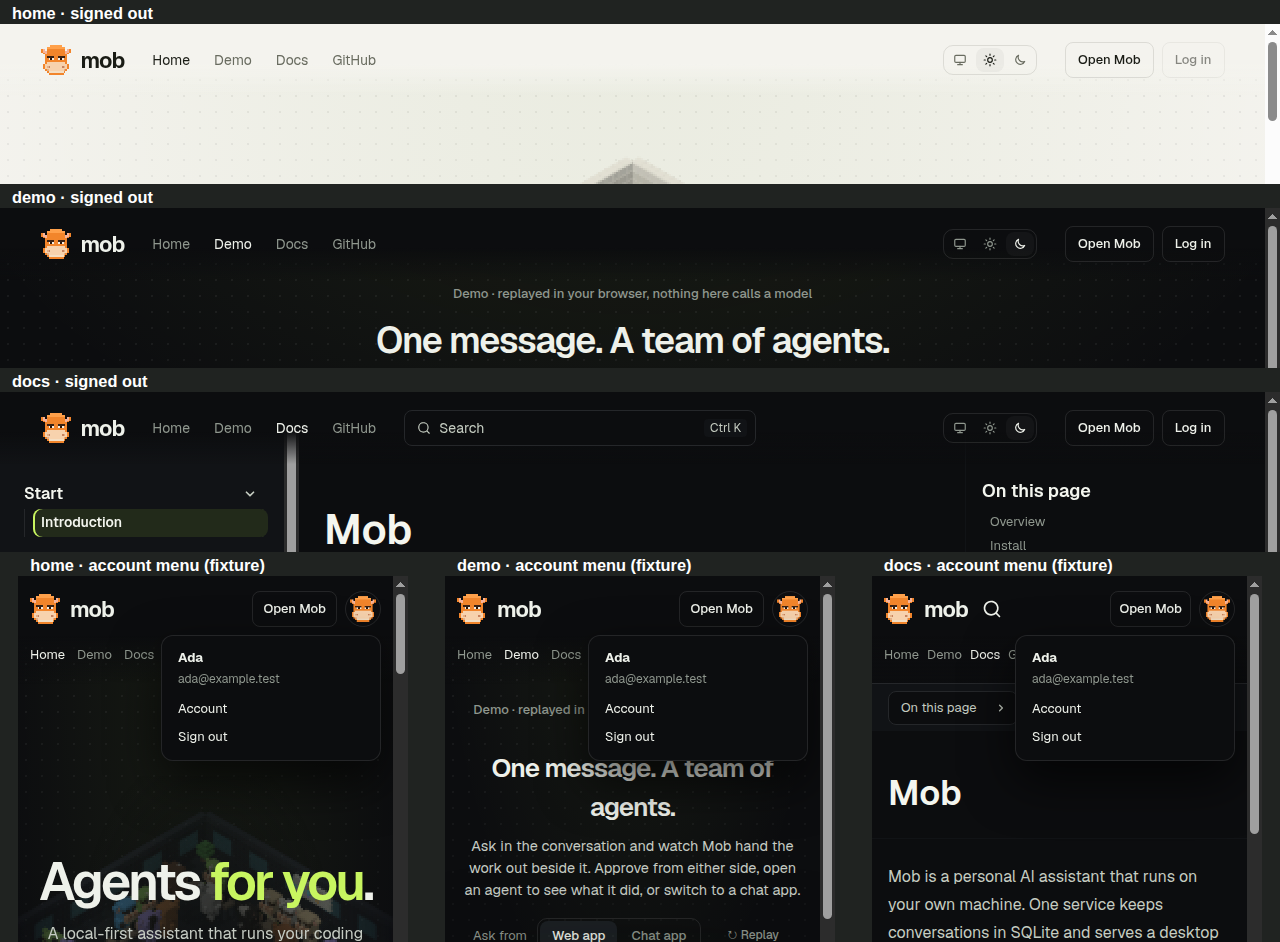
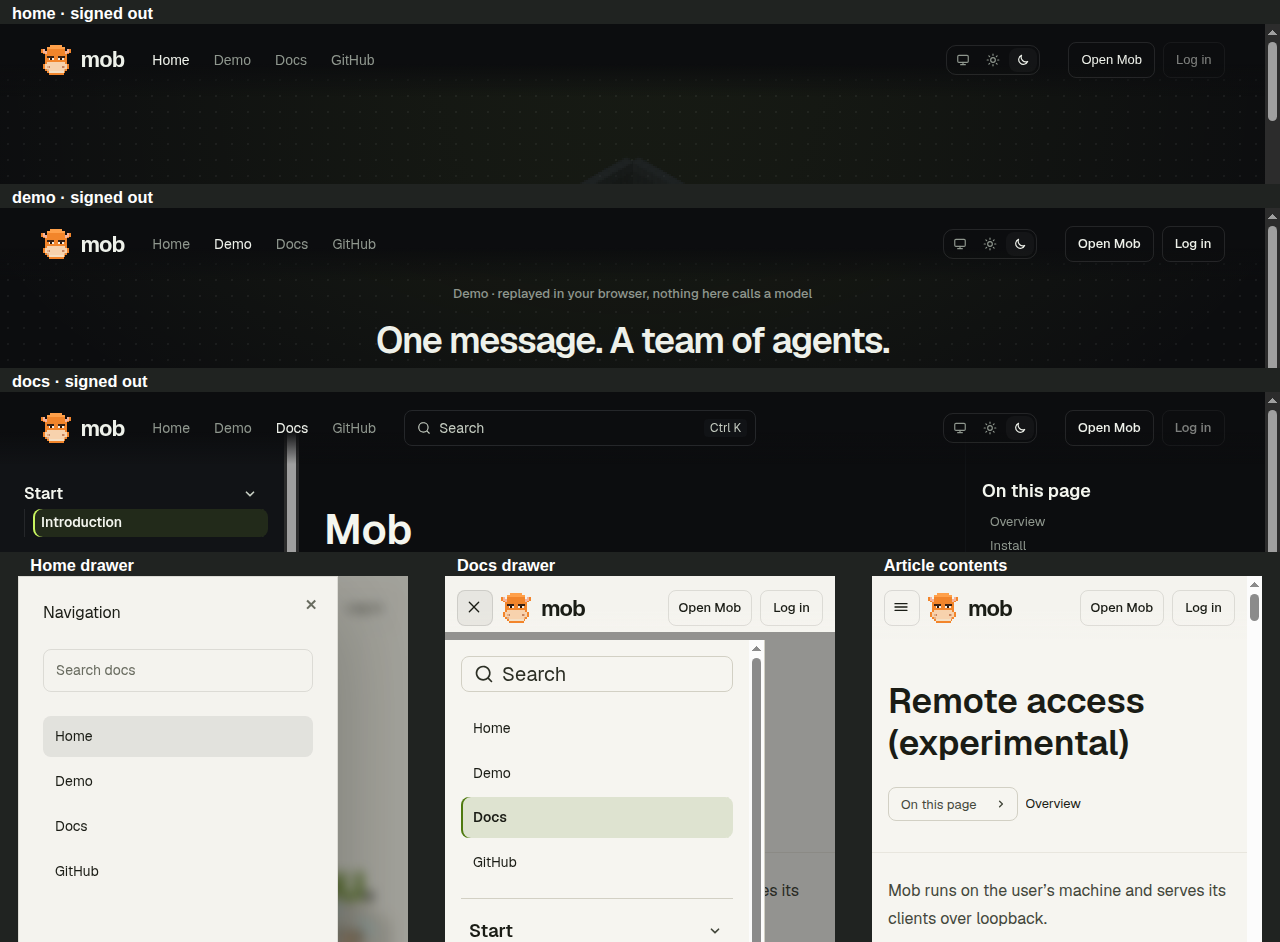
fix(web): simplify mobile public navigation

diff --git a/webapp/src/components/site/header.css b/webapp/src/components/site/header.css
@@ -1,5 +1,5 @@
 /* One public header, independent of the React and Starlight page styles. */
-.site-header, .site-user-menu {
+.site-header, .site-user-menu, .site-drawer {
 	--site-bg: #0c0d0f;
 	--site-text: #eef1ea;
 	--site-muted: #8f978e;
@@ -15,7 +15,7 @@
 	line-height: 1.5;
 	color: var(--site-text);
 }
-[data-theme='light'] :is(.site-header, .site-user-menu) {
+[data-theme='light'] :is(.site-header, .site-user-menu, .site-drawer) {
 	--site-bg: #f4f3ee;
 	--site-text: #1a1c15;
 	--site-muted: #696c60;
@@ -46,12 +46,23 @@
 .site-account { display: flex; align-items: center; gap: 8px; font-size: 13px; font-weight: 500; }
 .site-account a { box-sizing: border-box; display: inline-flex; align-items: center; min-height: 36px; padding: 6px 12px; border: 1px solid var(--site-border); border-radius: 8px; }
 .site-account a:hover, .site-account a[aria-current='page'] { background: color-mix(in srgb, var(--site-text) 6%, transparent); }
-@media (max-width: 760px) {
-	.site-header-inner { height: 108px; padding: 14px 12px; gap: 12px 8px; grid-template-columns: auto 1fr auto auto; }
-	.site-brand { grid-area: 1 / 1 / 2 / 3; }
-	.site-account { grid-area: 1 / 3 / 2 / 5; justify-content: flex-end; }
-	.site-links { grid-area: 2 / 1 / 3 / 4; gap: 12px; font-size: 13px; }
-	.site-theme { grid-area: 2 / 4; justify-content: flex-end; }
+.site-menu-button { display: none; }
+.site-drawer.dialog-panel {
+	inset: 0 auto 0 0; transform: none; width: min(320px, 85vw); max-width: none;
+	height: 100dvh; max-height: none; border-radius: 0; padding: 24px;
+	display: flex; flex-direction: column; gap: 24px; background: var(--site-bg);
+}
+.site-drawer h2 { margin: 0; font-size: 16px; }
+.site-drawer-links { display: flex; flex-direction: column; gap: 4px; }
+.site-drawer-links a, .site-drawer-search { color: inherit; text-decoration: none; padding: 10px 12px; border-radius: 8px; }
+.site-drawer-links a:hover, .site-drawer-links a[aria-current='page'] { background: color-mix(in srgb, currentColor 8%, transparent); }
+.site-drawer-search { border: 1px solid var(--site-border); color: var(--site-muted); }
+.site-drawer-theme { margin-top: auto; padding-top: 20px; border-top: 1px solid var(--site-border); }
+@media (width < 50rem) {
+	.site-header-inner { height: 64px; padding: 12px; gap: 8px; grid-template-columns: 36px 1fr auto; }
+	.site-menu-button { display: inline-flex; align-items: center; justify-content: center; width: 36px; height: 36px; border: 1px solid var(--site-border); border-radius: 8px; background: transparent; color: inherit; font-size: 20px; cursor: pointer; }
+	.site-header .site-links, .site-header .site-theme { display: none; }
+	.site-account { justify-content: flex-end; }
 	.site-account a { padding: 6px 10px; }
 }
 

diff --git a/webapp/src/components/site/Site.tsx b/webapp/src/components/site/Site.tsx
@@ -1,6 +1,7 @@
 import { Logo } from '../brand/Logo';
 import { ThemePicker } from '../../theme/ThemePicker';
 import type { MouseEventHandler } from 'react';
+import { Dialog, DialogTrigger, DialogContent, DialogTitle } from '../ui/dialog';
 import { siteLinks } from './navigation';
 import { UserMenu } from '../../landing/UserMenu';
 import './header.css';
@@ -14,6 +15,17 @@ const github = 'https://github.com/fdkevin0/mob';
 export function SiteHeader({ current, floating, onSignIn }: { current?: string; floating?: boolean; onSignIn?: MouseEventHandler<HTMLButtonElement> }) {
 	return (
 		<header className={`site-header${floating ? ' site-header-floating' : ''}`}><div className="site-header-inner">
+			<Dialog>
+				<DialogTrigger className="site-menu-button" aria-label="Open navigation"><span aria-hidden="true">☰</span></DialogTrigger>
+				<DialogContent className="site-drawer" aria-describedby={undefined}>
+					<DialogTitle>Navigation</DialogTitle>
+					<a className="site-drawer-search" href="/docs/?search">Search docs</a>
+					<nav className="site-drawer-links" aria-label="Site">
+						{siteLinks.map(link => <a key={link.href} href={link.href} aria-current={link.href === current ? 'page' : undefined}>{link.label}</a>)}
+					</nav>
+					<div className="site-drawer-theme"><ThemePicker /></div>
+				</DialogContent>
+			</Dialog>
 			<a href="/" className="site-brand" aria-label="Mob home"><Logo /></a>
 			<nav className="site-links" aria-label="Site">
 				{siteLinks.map(link => <a key={link.href} href={link.href} aria-current={link.href === current ? 'page' : undefined}>{link.label}</a>)}

diff --git a/webapp/src/landing/navigation.test.tsx b/webapp/src/landing/navigation.test.tsx
@@ -51,3 +51,14 @@ it('puts account and sign-out in the avatar menu, and reports sign-out errors', 
 	await waitFor(() => expect(auth.signOut).toHaveBeenCalledOnce());
 	expect((await screen.findByRole('alert')).textContent).toContain('Could not sign out');
 });
+
+it('opens the mobile navigation with docs search and theme controls', async () => {
+	render(<SiteHeader current="/demo" />);
+	fireEvent.click(screen.getByRole('button', { name: 'Open navigation' }));
+	const drawer = within(await screen.findByRole('dialog', { name: 'Navigation' }));
+	expect(drawer.getByRole('link', { name: 'Search docs' }).getAttribute('href')).toBe('/docs/?search');
+	expect(drawer.getByRole('link', { current: 'page' }).textContent).toBe('Demo');
+	expect(drawer.getByRole('radiogroup', { name: 'Theme' })).toBeTruthy();
+	fireEvent.click(drawer.getByRole('button', { name: 'Close' }));
+	await waitFor(() => expect(screen.queryByRole('dialog')).toBeNull());
+});

diff --git a/docs/features/remote-access.md b/docs/features/remote-access.md
@@ -12,10 +12,13 @@ The landing, demo, documentation and account pages share Home, Demo, Docs
 and GitHub navigation, a theme picker, and an Open Mob link followed by a
 login control. Signed-in visitors see their avatar (or initial); its menu
 contains Account and Sign out. Signed-out visitors see a Log in button.
-The current section is marked; on narrow screens the navigation and theme
-picker occupy a second row instead of disappearing. Docs keeps search inside
-the header, collapsing it to an icon when space is limited; its mobile
-documentation menu also stays in the header, with a quiet outlined button.
+The current section is marked. On screens narrower than 800px, a single
+64px header keeps the menu button, brand, Open Mob and login control visible.
+The left drawer contains docs search, the site links and a theme picker at
+the bottom. On documentation pages it also contains the documentation tree;
+on other pages the search link opens documentation search. Desktop docs keeps
+search in the header. The mobile article contents expands beside the title
+and scrolls with the article.
 The header uses the same fading background as the landing and demo pages.
 Article content and the desktop sidebar scroll behind that gradient.
 Account opens account management; Open Mob opens the app (or sign-in).
